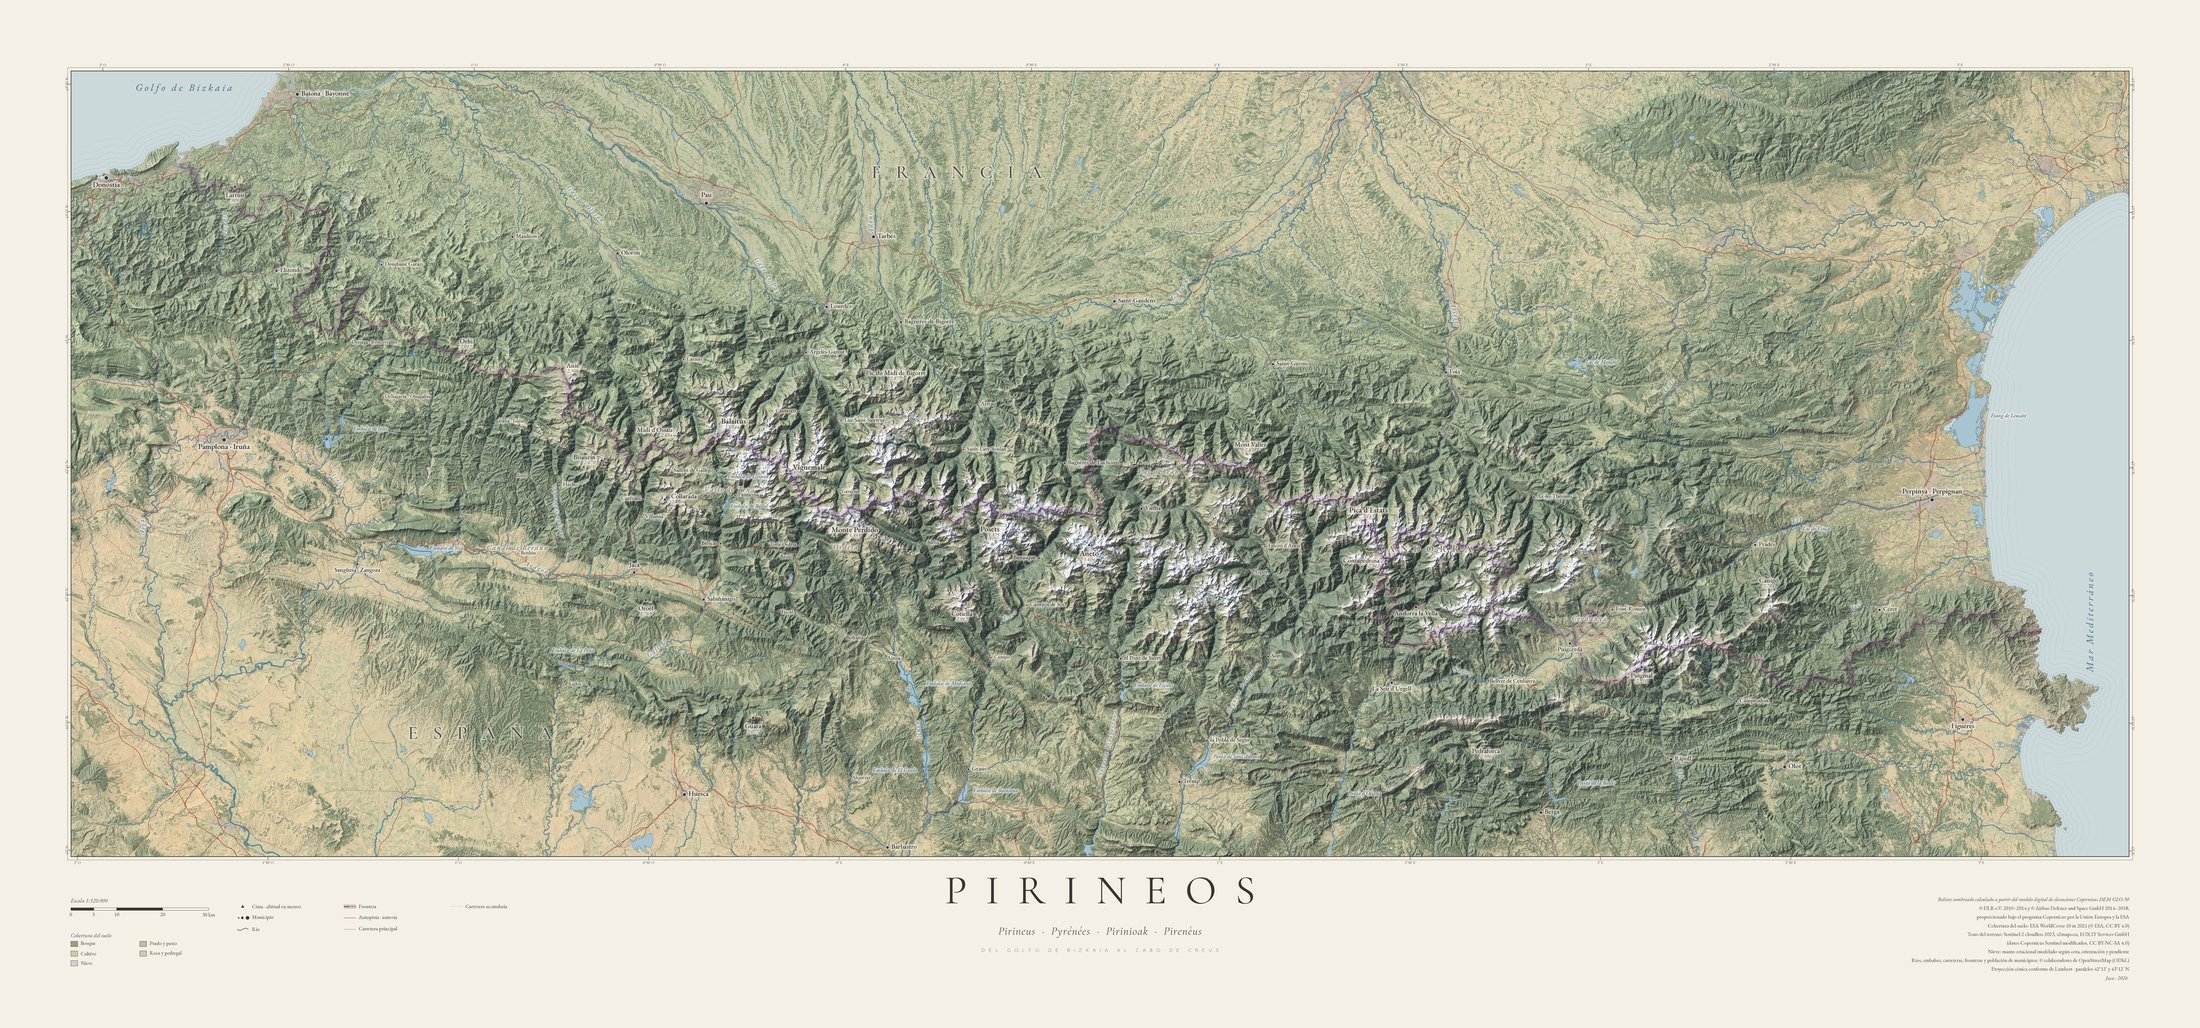
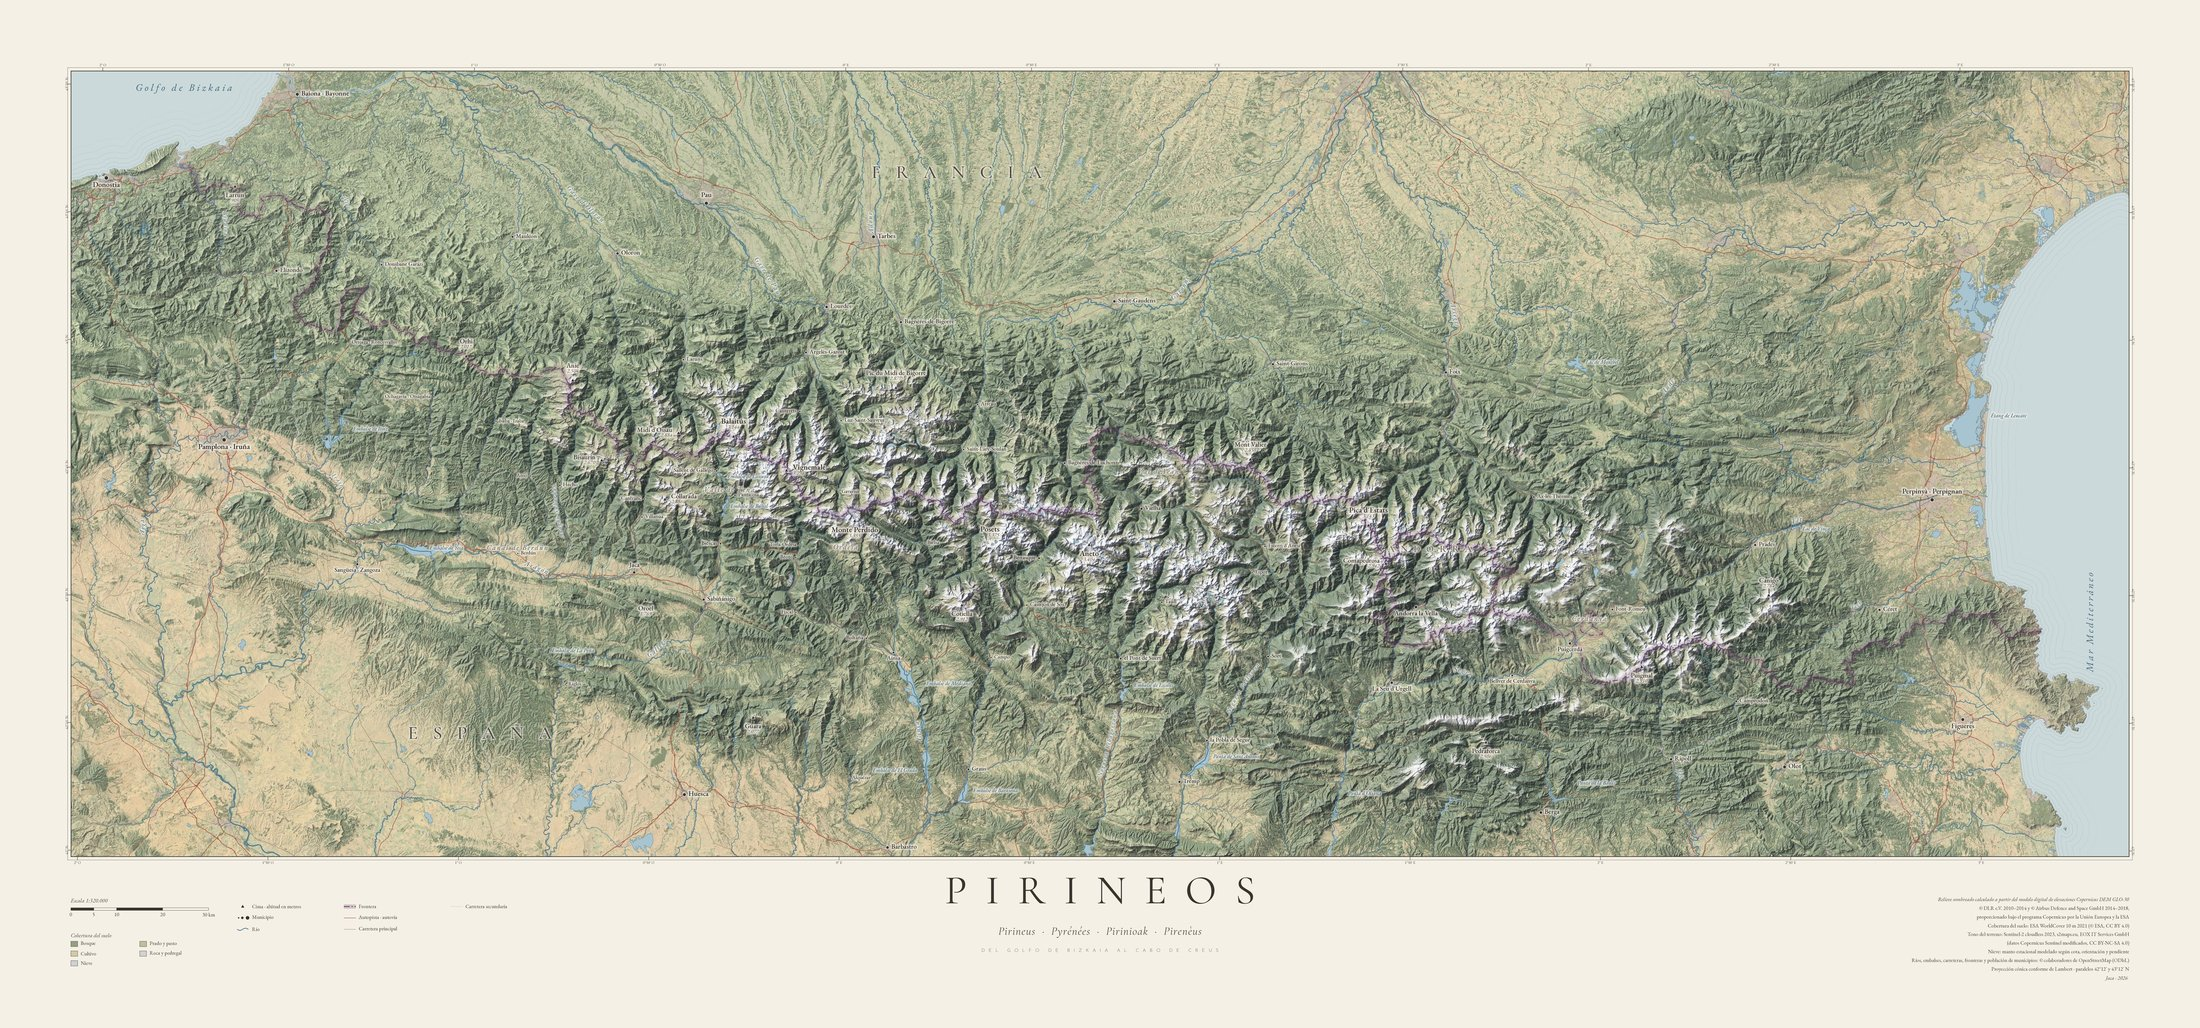
Mapa Pirineos: más nieve en cumbres y cordales, no en fondos de valle
La cota de nieve baja ~400 m solo donde el terreno es alto respecto a su
entorno (~3 km), de modo que picos como Collarada o Bisaurín quedan nevados
y los fondos de valle siguen verdes.

Claude-Session: https://claude.ai/code/session_01W6ykbCbG3CcBpb4fa33bjx

diff --git a/mapa-pirineo/08_color_base.py b/mapa-pirineo/08_color_base.py
@@ -23,7 +23,8 @@ from skimage.color import rgb2lab, lab2rgb
 from PIL import Image
 
 F = int(sys.argv[1]) if len(sys.argv) > 1 else 4
-SAT = float(sys.argv[2]) if len(sys.argv) > 2 else 0.5   # 0 = solo paleta · 1 = solo satélite
+SAT = float(sys.argv[2]) if len(sys.argv) > 2 else 0.5
+SNOW_CREST_DROP = float(sys.argv[3]) if len(sys.argv) > 3 else 400.0   # m que baja la nieve en cumbres   # 0 = solo paleta · 1 = solo satélite
 
 def sstep(x, a, b):
     t = np.clip((x - a) / (b - a), 0, 1); return t * t * (3 - 2 * t)
@@ -52,7 +53,11 @@ def base_color(dem, lc, s2, pix):
     south = (-gy / (np.hypot(gx, gy) + 1e-6)).astype(np.float32)      # +1 cara sur, -1 cara norte
     del gx, gy
     tpi = (zs - nd.gaussian_filter(zs, 400 / pix)).astype(np.float32) # <0 canal, >0 cresta
-    del zs
+    # posición relativa en su entorno (~3 km): 0 fondo de valle, 1 cumbre o cordal
+    win = max(3, int(3000 / pix) | 1)
+    zmax = nd.maximum_filter(zs, win); zmin = nd.minimum_filter(zs, win)
+    rel = ((zs - zmin) / np.maximum(zmax - zmin, 50)).astype(np.float32)
+    del zs, zmax, zmin
     pal = np.empty(dem.shape + (3,), np.float32)
     pal[:] = C(204, 208, 152)
     for k, (lo, hi, z0, z1) in lowhigh.items():
@@ -77,8 +82,11 @@ def base_color(dem, lc, s2, pix):
     w = np.array([SAT * 0.45, SAT, SAT], np.float32)     # el satélite aporta sobre todo el tono
     lab = Lp * (1 - w) + sat * w; del Lp, sat
     # ---- nieve (manto de final de primavera, derivado del relieve)
-    zline = 2450 + 200 * south * sstep(slope, 3, 15)          # N ~2250 m · S ~2650 m
+    zline = 2450 + 200 * south * sstep(slope, 3, 15)          # manto general: N ~2250 m · S ~2650 m
     snow = sstep(dem - zline, -110, 180)
+    # en cumbres y cordales la nieve baja ~400 m más (N ~1850 m · S ~2250 m); fondos y laderas bajas, no
+    crest = sstep(rel, 0.45, 0.8)
+    snow = np.maximum(snow, sstep(dem - (zline - SNOW_CREST_DROP), -60, 200) * crest)
     snow *= 1 - 0.75 * sstep(slope, 38, 58)                   # paredes sin nieve
     snow = np.clip(snow + 0.35 * snow * np.tanh(-tpi / 40), 0, 1)  # canales con más nieve
     lab = lab * (1 - snow[..., None]) + snowc * snow[..., None]

diff --git a/mapa-pirineo/README.md b/mapa-pirineo/README.md
@@ -19,7 +19,7 @@ Hay dos versiones con la misma cartografía y rotulación:
 | Relieve sombreado, tintas hipsométricas | Copernicus DEM GLO-30 (30 m): © DLR e.V. 2010–2014, © Airbus Defence and Space GmbH 2014–2018, programa Copernicus (UE/ESA) |
 | Bosque, matorral, prado, cultivo, roca, urbano (versión color) | ESA WorldCover 10 m 2021 (© ESA, CC BY 4.0) |
 | Tono regional del terreno (versión color) | Sentinel-2 cloudless 2023, s2maps.eu, EOX IT Services GmbH (datos Copernicus Sentinel modificados, **CC BY-NC-SA 4.0: solo uso no comercial**) |
-| Nieve (versión color) | Manto estacional modelado sobre el DEM: cota de nieve ~2.250 m en caras norte y ~2.650 m en caras sur, sin nieve en paredes de más de ~45°, más en canales |
+| Nieve (versión color) | Manto estacional modelado sobre el DEM: cota de nieve ~2.250 m en caras norte y ~2.650 m en caras sur, que baja ~400 m más en cumbres y cordales (posición alta en su entorno de ~3 km) sin tocar fondos de valle; sin nieve en paredes de más de ~45°, más en canales |
 | Grosor de los ríos (crece aguas abajo) | Área de cuenca calculada sobre el mismo DEM (`pysheds`) |
 | Ríos, lagos, embalses, ibones, carreteras (autopistas, principales y secundarias), frontera, posición y población de municipios, nombres de embalses | © colaboradores de OpenStreetMap (ODbL), vía teselas OpenMapTiles de OpenFreeMap y Nominatim |
 | Cimas | Coordenadas públicas, recolocadas sobre el máximo real del DEM; altitudes oficiales |
